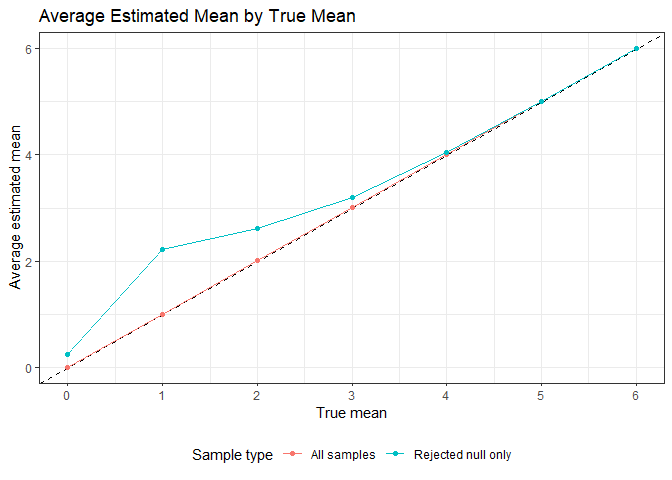
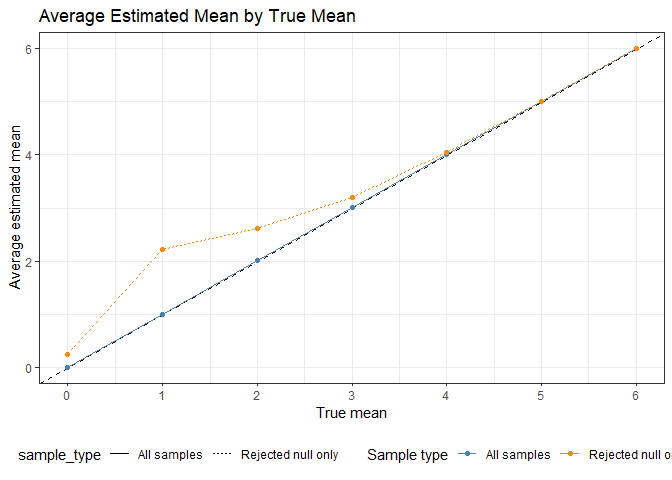
update on md

diff --git a/p8105_hw5_yw4886.md b/p8105_hw5_yw4886.md
@@ -1,7 +1,7 @@
 Data Science HW5
 ================
 Yijia
-2026-11-19
+2026-11-18
 
 ## Problem 1
 
@@ -45,8 +45,11 @@ birthday_summary =
 ``` r
 birthday_summary |> 
   ggplot(aes(x = group_size, y = probability)) +
-  geom_line() +
-  geom_point(size = 1.5) +
+  geom_line(color = "steelblue") +
+  geom_point(size = 1.5, color = "steelblue") +
+  geom_hline(yintercept = 0.5, linetype = "dashed") +
+  geom_vline(xintercept = 23, linetype = "dashed") +
+  scale_y_continuous(limits = c(0, 1)) +
   labs(
     title = "Probability of Shared Birthdays",
     x = "Group size",
@@ -107,39 +110,46 @@ longitudinal_df =
   ) |> 
   mutate(week = as.numeric(week))
 
-longitudinal_df
+longitudinal_df |> 
+  group_by(arm) |> 
+  summarize(
+    n_subjects = n_distinct(subject_id),
+    n_observations = n()
+  ) |> 
+  kable(
+    col.names = c("Study arm", "Participants", "Observations")
+  )
 ```
 
-    ## # A tibble: 160 × 4
-    ##    arm     subject_id  week observation
-    ##    <chr>   <chr>      <dbl>       <dbl>
-    ##  1 Control Control_01     1        0.2 
-    ##  2 Control Control_01     2       -1.31
-    ##  3 Control Control_01     3        0.66
-    ##  4 Control Control_01     4        1.96
-    ##  5 Control Control_01     5        0.23
-    ##  6 Control Control_01     6        1.09
-    ##  7 Control Control_01     7        0.05
-    ##  8 Control Control_01     8        1.94
-    ##  9 Control Control_02     1        1.13
-    ## 10 Control Control_02     2       -0.88
-    ## # ℹ 150 more rows
+| Study arm    | Participants | Observations |
+|:-------------|-------------:|-------------:|
+| Control      |           10 |           80 |
+| Experimental |           10 |           80 |
 
-Each row represents an observation for one participant at one week. The
-study arm is included in the subject identifier so that participants
-with the same numerical ID in different arms are not confused.
+The tidy dataset contains 160 observations from 20 participants, with 10
+participants in the control arm and 10 participants in the experimental
+arm, across 8 weeks of observation. Each row represents an observation
+for one participant at a given week. The study arm is included in
+`subject_id` to ensure that participants with the same numerical ID in
+different arms are uniquely identified.
 
 ``` r
 longitudinal_df |> 
   ggplot(aes(x = week, y = observation, group = subject_id, color = arm)) +
-  geom_line(alpha = 0.7) +
-  geom_point(size = 1.5) +
+  geom_line(alpha = 0.8, linewidth = 0.6) +
+  geom_point(size = 1.5) + 
   facet_grid(. ~ arm) +
   scale_x_continuous(breaks = 1:8) +
   labs(
     title = "Longitudinal Observations by Study Arm",
     x = "Week",
     y = "Observation"
+  ) +
+  scale_color_manual(
+    values = c(
+      "Control" = "steelblue",
+      "Experimental" = "darkorange"
+    )
   ) +
   theme_bw() +
   theme(legend.position = "none")
@@ -208,9 +218,14 @@ power_df =
 ``` r
 power_df |> 
   ggplot(aes(x = true_mu, y = power)) +
-  geom_line() +
-  geom_point() +
+  geom_line(color = "steelblue") +
+  geom_point(color = "steelblue") +
+  geom_hline(
+    yintercept = 0.05,
+    linetype = "dashed"
+  ) +
   scale_x_continuous(breaks = 0:6) +
+  scale_y_continuous(limits = c(0, 1)) +
   labs(
     title = "Power of a One-Sample t-test",
     x = "True mean",
@@ -257,7 +272,14 @@ estimate_summary |>
       "mean_rejected" = "Rejected null only"
     )
   ) |> 
-  ggplot(aes(x = true_mu, y = average_estimate, color = sample_type)) +
+  ggplot(
+    aes(
+      x = true_mu,
+      y = average_estimate,
+    color = sample_type,
+      linetype = sample_type
+    )
+  ) + 
   geom_abline(intercept = 0, slope = 1, linetype = "dashed") +
   geom_line() +
   geom_point() +
@@ -268,22 +290,31 @@ estimate_summary |>
     y = "Average estimated mean",
     color = "Sample type"
   ) +
+  scale_color_manual(
+    values = c(
+      "All samples" = "steelblue",
+      "Rejected null only" = "darkorange"
+    )
+  ) +
   theme_bw() +
   theme(legend.position = "bottom")
 ```
 
 ![](p8105_hw5_yw4886_files/figure-gfm/estimate-plot-1.png)<!-- -->
 
-The average estimate across all samples is approximately equal to the
-true mean, which is consistent with the sample mean being an unbiased
-estimator. However, the average estimate among samples for which the
-null hypothesis is rejected tends to overestimate small positive true
-means. When power is low, samples with unusually large estimated effects
-are more likely to produce statistically significant results. Selecting
-only those samples therefore introduces selection bias.
+The average estimate across all simulated samples is approximately equal
+to the true mean, which is consistent with the sample mean being an
+unbiased estimator. However, when the true mean is small and positive,
+the average estimate among samples for which the null hypothesis is
+rejected tends to be larger than the true mean. When power is low,
+samples with unusually large estimated effects are more likely to
+produce statistically significant results. Selecting only statistically
+significant samples therefore introduces selection bias.
 
 As the true mean increases and power approaches 1, nearly all samples
 lead to rejection, and the difference between the two averages becomes
-smaller. When the true mean is zero, the average estimate among rejected
-samples is expected to be approximately zero because the two-sided test
-selects extreme estimates in both directions.
+smaller. When the true mean is zero, the conditional average estimate is
+theoretically zero because the two-sided test selects extreme estimates
+in both directions. The slight deviation from zero observed in the
+simulation can be attributed to Monte Carlo variability and the
+relatively small number of rejected samples.
